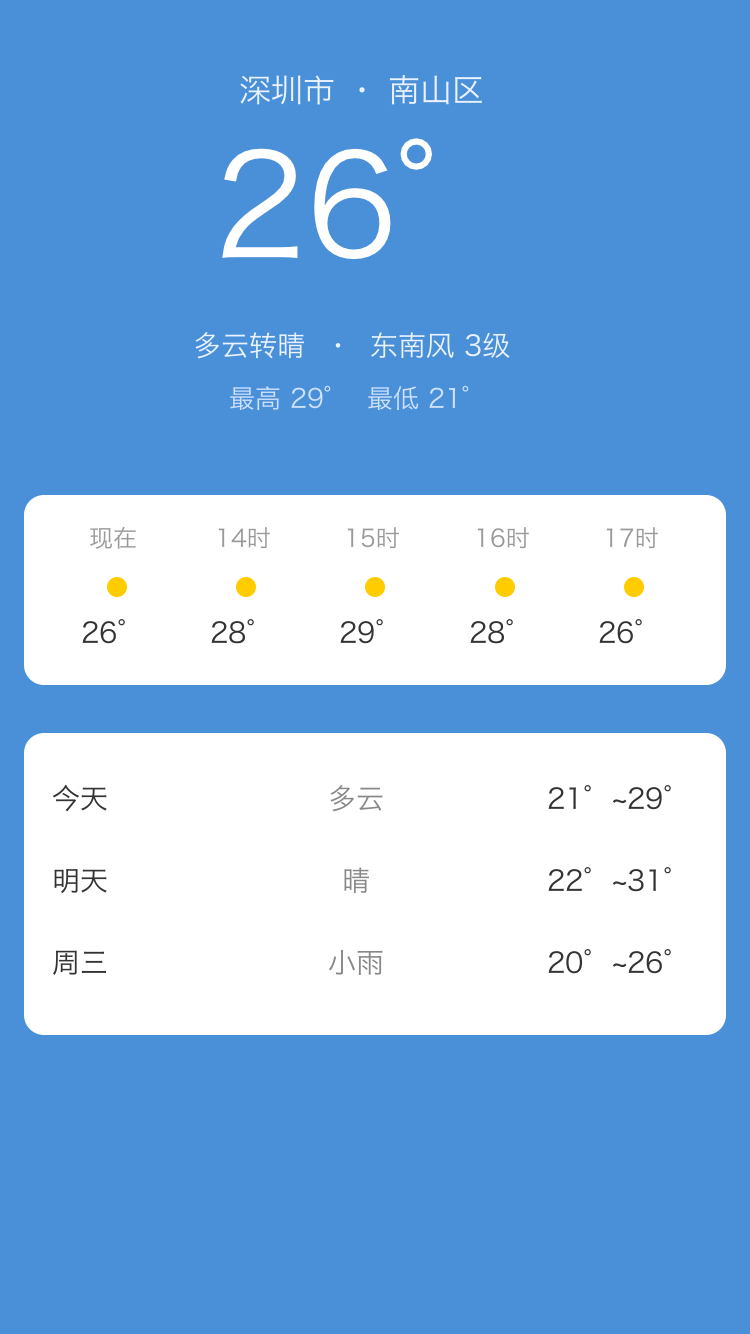
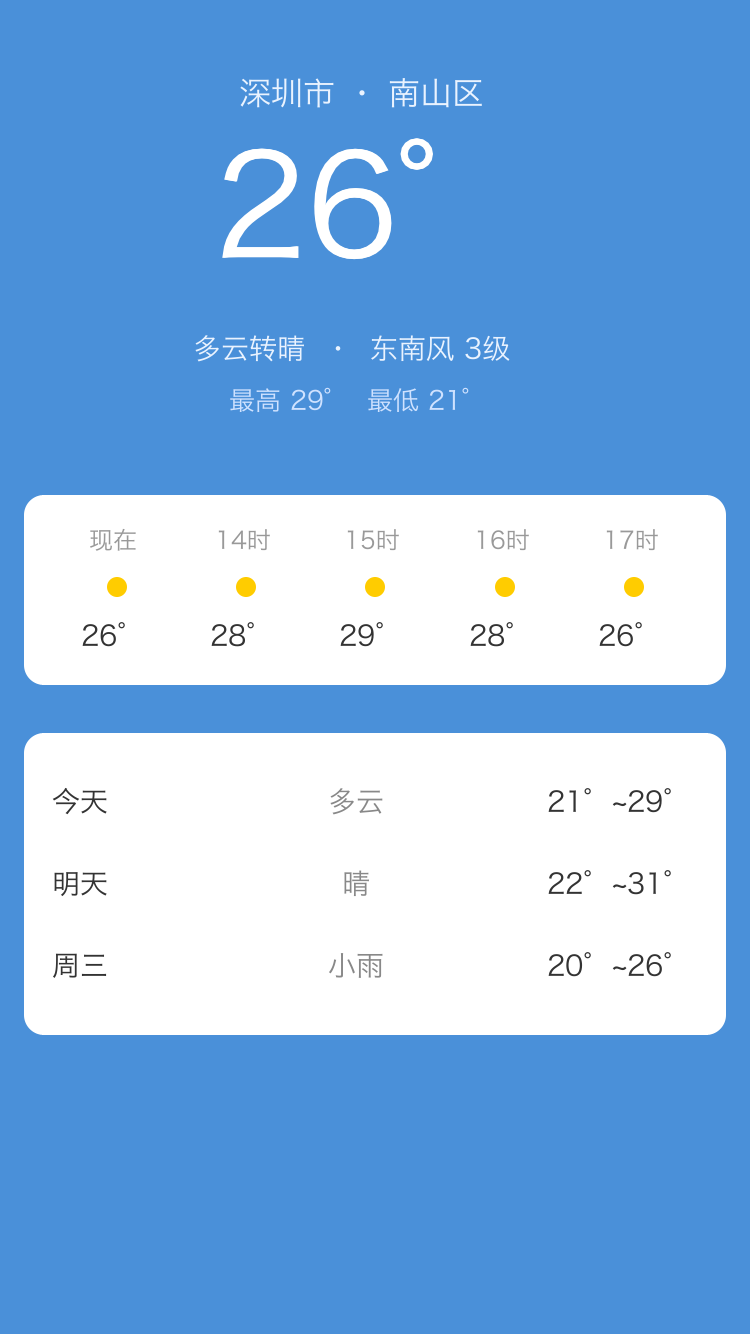
优化代码

diff --git a/src/renderer/wxml_renderer.rs b/src/renderer/wxml_renderer.rs
@@ -11,7 +11,7 @@ use std::collections::HashMap;
 use taffy::prelude::*;
 
 use super::components::{
-    RenderNode, NodeStyle, ComponentContext,
+    RenderNode, NodeStyle, ComponentContext, InheritedText,
     ViewComponent, TextComponent, ButtonComponent, IconComponent,
     ProgressComponent, SwitchComponent, CheckboxComponent, RadioComponent,
     SliderComponent, InputComponent, ImageComponent, VideoComponent,
@@ -102,7 +102,7 @@ impl WxmlRenderer {
         let mut render_nodes = Vec::new();
         
         for node in &rendered {
-            if let Some(rn) = self.build_tree(&mut taffy, node, &[]) {
+            if let Some(rn) = self.build_tree(&mut taffy, node, &[], &InheritedText::default()) {
                 render_nodes.push(rn);
             }
         }
@@ -434,7 +434,7 @@ impl WxmlRenderer {
         
         let mut render_nodes = Vec::new();
         for node in &rendered {
-            if let Some(rn) = self.build_tree(&mut taffy, node, &[]) {
+            if let Some(rn) = self.build_tree(&mut taffy, node, &[], &InheritedText::default()) {
                 render_nodes.push(rn);
             }
         }
@@ -456,16 +456,18 @@ impl WxmlRenderer {
         }
     }
 
-    fn build_tree(&self, taffy: &mut TaffyTree, node: &WxmlNode, ancestors: &[ElementDesc]) -> Option<RenderNode> {
+    fn build_tree(&self, taffy: &mut TaffyTree, node: &WxmlNode, ancestors: &[ElementDesc], inherited: &InheritedText) -> Option<RenderNode> {
         let sf = self.scale_factor;
         
         if node.node_type == WxmlNodeType::Text {
             let text = node.text_content.trim();
             if text.is_empty() { return None; }
-            let fs = 14.0;
+            // 原始文本节点继承父级的字号/颜色/字重/对齐/行高
+            let fs = inherited.font_size;
+            let line_h = inherited.line_height.unwrap_or(fs * 1.4);
             let tw = self.measure_text(text, fs * sf);
             let tn = taffy.new_leaf(Style {
-                size: Size { width: length(tw), height: length((fs + 4.0) * sf) },
+                size: Size { width: length(tw + 2.0 * sf), height: length(line_h * sf) },
                 ..Default::default()
             }).unwrap();
             return Some(RenderNode {
@@ -473,7 +475,16 @@ impl WxmlRenderer {
                 text: text.into(), 
                 attrs: HashMap::new(),
                 taffy_node: tn,
-                style: NodeStyle { font_size: fs, text_color: Some(Color::BLACK), opacity: 1.0, ..Default::default() },
+                style: NodeStyle {
+                    font_size: fs,
+                    text_color: inherited.color,
+                    font_weight: inherited.weight,
+                    text_align: inherited.align,
+                    line_height: inherited.line_height,
+                    letter_spacing: inherited.letter_spacing,
+                    opacity: 1.0,
+                    ..Default::default()
+                },
                 children: vec![], 
                 events: vec![],
             });
@@ -489,6 +500,7 @@ impl WxmlRenderer {
             stylesheet: &self.stylesheet,
             taffy,
             ancestors: ancestors.to_vec(),
+            inherited: inherited.clone(),
         };
         
         let mut render_node = match tag {
@@ -529,9 +541,19 @@ impl WxmlRenderer {
                     &node.attributes,
                 ));
                 
+                // 计算传递给子节点的继承文本样式（来自当前节点的计算样式）
+                let child_inherited = InheritedText {
+                    font_size: rn.style.font_size,
+                    color: rn.style.text_color,
+                    weight: rn.style.font_weight,
+                    align: rn.style.text_align,
+                    line_height: rn.style.line_height,
+                    letter_spacing: rn.style.letter_spacing,
+                };
+                
                 let mut children = vec![];
                 for c in &node.children {
-                    if let Some(cr) = self.build_tree(ctx.taffy, c, &child_ancestors) { 
+                    if let Some(cr) = self.build_tree(ctx.taffy, c, &child_ancestors, &child_inherited) { 
                         children.push(cr); 
                     }
                 }

diff --git a/src/tests/component_tests.rs b/src/tests/component_tests.rs
@@ -63,6 +63,7 @@ fn test_view_component_build() {
         stylesheet: &stylesheet,
         taffy: &mut taffy,
         ancestors: Vec::new(),
+        inherited: Default::default(),
     };
     
     let render_node = ViewComponent::build(&node, &mut ctx);
@@ -101,6 +102,7 @@ fn test_text_component_build() {
         stylesheet: &stylesheet,
         taffy: &mut taffy,
         ancestors: Vec::new(),
+        inherited: Default::default(),
     };
     
     let render_node = TextComponent::build(&node, &mut ctx);
@@ -135,6 +137,7 @@ fn test_button_component_build() {
         stylesheet: &stylesheet,
         taffy: &mut taffy,
         ancestors: Vec::new(),
+        inherited: Default::default(),
     };
     
     let render_node = ButtonComponent::build(&node, &mut ctx);
@@ -165,6 +168,7 @@ fn test_icon_component_build() {
         stylesheet: &stylesheet,
         taffy: &mut taffy,
         ancestors: Vec::new(),
+        inherited: Default::default(),
     };
     
     let render_node = IconComponent::build(&node, &mut ctx);
@@ -193,6 +197,7 @@ fn test_progress_component_build() {
         stylesheet: &stylesheet,
         taffy: &mut taffy,
         ancestors: Vec::new(),
+        inherited: Default::default(),
     };
     
     let render_node = ProgressComponent::build(&node, &mut ctx);
@@ -222,6 +227,7 @@ fn test_switch_component_build() {
         stylesheet: &stylesheet,
         taffy: &mut taffy,
         ancestors: Vec::new(),
+        inherited: Default::default(),
     };
     
     let render_node = SwitchComponent::build(&node, &mut ctx);
@@ -251,6 +257,7 @@ fn test_checkbox_component_build() {
         stylesheet: &stylesheet,
         taffy: &mut taffy,
         ancestors: Vec::new(),
+        inherited: Default::default(),
     };
     
     let render_node = CheckboxComponent::build(&node, &mut ctx);
@@ -279,6 +286,7 @@ fn test_radio_component_build() {
         stylesheet: &stylesheet,
         taffy: &mut taffy,
         ancestors: Vec::new(),
+        inherited: Default::default(),
     };
     
     let render_node = RadioComponent::build(&node, &mut ctx);
@@ -308,6 +316,7 @@ fn test_slider_component_build() {
         stylesheet: &stylesheet,
         taffy: &mut taffy,
         ancestors: Vec::new(),
+        inherited: Default::default(),
     };
     
     let render_node = SliderComponent::build(&node, &mut ctx);
@@ -344,6 +353,7 @@ fn test_input_component_build() {
         stylesheet: &stylesheet,
         taffy: &mut taffy,
         ancestors: Vec::new(),
+        inherited: Default::default(),
     };
     
     let render_node = InputComponent::build(&node, &mut ctx);
@@ -381,6 +391,7 @@ fn test_image_component_build() {
         stylesheet: &stylesheet,
         taffy: &mut taffy,
         ancestors: Vec::new(),
+        inherited: Default::default(),
     };
     
     let render_node = ImageComponent::build(&node, &mut ctx);
@@ -510,6 +521,7 @@ fn test_fixed_position_style() {
         stylesheet: &stylesheet,
         taffy: &mut taffy,
         ancestors: Vec::new(),
+        inherited: Default::default(),
     };
     
     let render_node = ViewComponent::build(&node, &mut ctx);

diff --git a/src/renderer/components/text.rs b/src/renderer/components/text.rs
@@ -100,19 +100,43 @@ impl TextComponent {
             let use_ellipsis = matches!(node.style.text_overflow, TextOverflow::Ellipsis);
             
             let text = &node.text;
+            let text_w = tr.measure_text_with_spacing(text, size, letter_spacing);
+            // 是否需要多行：含换行符，或允许换行且超出宽度
+            let multiline = text.contains('\n') || (should_wrap && w > 0.0 && text_w > w);
             
-            if w > 0.0 && should_wrap {
-                // 自动换行绘制
+            // 粗体：字体无独立 bold 字面时用轻微偏移二次描绘模拟（faux-bold）
+            let is_bold = matches!(
+                node.style.font_weight,
+                FontWeight::Bold | FontWeight::W600 | FontWeight::W700 | FontWeight::W800 | FontWeight::W900
+            );
+            let bold_dx = if is_bold { 0.7 * sf } else { 0.0 };
+            
+            if multiline {
+                // 多行：顶部对齐换行绘制
                 draw_text_wrapped_advanced(
                     canvas, tr, text, x, y + size, size, w, h,
                     line_height, letter_spacing, &node.style, &paint
                 );
-            } else if w > 0.0 && use_ellipsis {
-                // 单行 + 省略号
-                draw_text_with_ellipsis(canvas, tr, text, x, y + size, size, w, letter_spacing, &paint);
+                if is_bold {
+                    draw_text_wrapped_advanced(
+                        canvas, tr, text, x + bold_dx, y + size, size, w, h,
+                        line_height, letter_spacing, &node.style, &paint
+                    );
+                }
             } else {
-                // 普通绘制
-                tr.draw_text_with_spacing(canvas, text, x, y + size, size, letter_spacing, &paint);
+                // 单行：在盒内垂直居中（基线 ≈ 盒中心 + 0.34*字号）
+                let baseline = y + h / 2.0 + size * 0.34;
+                if w > 0.0 && use_ellipsis && text_w > w {
+                    draw_text_with_ellipsis(canvas, tr, text, x, baseline, size, w, letter_spacing, &paint);
+                    if is_bold {
+                        draw_text_with_ellipsis(canvas, tr, text, x + bold_dx, baseline, size, w, letter_spacing, &paint);
+                    }
+                } else {
+                    tr.draw_text_with_spacing(canvas, text, x, baseline, size, letter_spacing, &paint);
+                    if is_bold {
+                        tr.draw_text_with_spacing(canvas, text, x + bold_dx, baseline, size, letter_spacing, &paint);
+                    }
+                }
             }
             
             // 绘制文本装饰

diff --git a/src/renderer/components/base.rs b/src/renderer/components/base.rs
@@ -173,6 +173,31 @@ impl Transform {
     }
 }
 
+/// 可继承的文本样式（CSS 继承语义：color / font-size / font-weight / text-align /
+/// line-height / letter-spacing 会从父元素传递给子元素，直到被显式覆盖）。
+#[derive(Clone)]
+pub struct InheritedText {
+    pub font_size: f32,
+    pub color: Option<Color>,
+    pub weight: FontWeight,
+    pub align: TextAlign,
+    pub line_height: Option<f32>,
+    pub letter_spacing: f32,
+}
+
+impl Default for InheritedText {
+    fn default() -> Self {
+        Self {
+            font_size: 16.0, // 根默认字号（对齐移动端常见默认 16px）
+            color: None,
+            weight: FontWeight::Normal,
+            align: TextAlign::Left,
+            line_height: None,
+            letter_spacing: 0.0,
+        }
+    }
+}
+
 /// 组件上下文
 pub struct ComponentContext<'a> {
     pub scale_factor: f32,
@@ -182,6 +207,8 @@ pub struct ComponentContext<'a> {
     pub taffy: &'a mut TaffyTree,
     /// 祖先元素链（根 -> 父），用于后代/子选择器匹配。缺省为空。
     pub ancestors: Vec<ElementDesc>,
+    /// 从父元素继承下来的文本样式。
+    pub inherited: InheritedText,
 }
 
 /// 组件 trait
@@ -309,7 +336,17 @@ pub fn build_base_style(
     chain.push(ElementDesc::new(&node.tag_name, id, &classes, &node.attributes));
     let css = ctx.stylesheet.get_styles_chain(&chain);
     
-    let mut ns = NodeStyle { font_size: 14.0, opacity: 1.0, ..Default::default() };
+    // 先用继承的文本样式做默认值，再用 CSS/内联覆盖（CSS 继承语义）
+    let mut ns = NodeStyle {
+        font_size: ctx.inherited.font_size,
+        text_color: ctx.inherited.color,
+        font_weight: ctx.inherited.weight,
+        text_align: ctx.inherited.align,
+        line_height: ctx.inherited.line_height,
+        letter_spacing: ctx.inherited.letter_spacing,
+        opacity: 1.0,
+        ..Default::default()
+    };
     
     // 默认样式：flex 布局，列方向
     let mut ts = Style { 

diff --git a/src/tests/inline_style_tests.rs b/src/tests/inline_style_tests.rs
@@ -15,6 +15,7 @@ fn test_inline_style_parsing() {
         stylesheet: &stylesheet,
         taffy: &mut taffy,
         ancestors: Vec::new(),
+        inherited: Default::default(),
     };
     
     let mut node = WxmlNode::new_element("view");

diff --git a/src/renderer/components/mod.rs b/src/renderer/components/mod.rs
@@ -71,6 +71,7 @@ impl ComponentRegistry {
             stylesheet,
             taffy,
             ancestors: Vec::new(),
+            inherited: Default::default(),
         };
         
         match tag {
